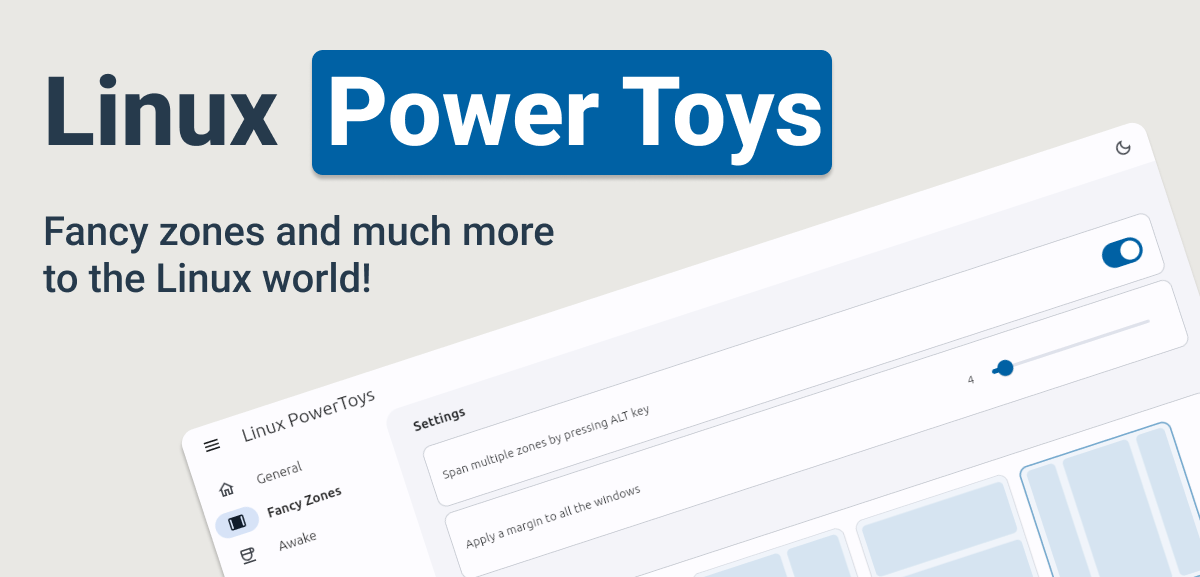
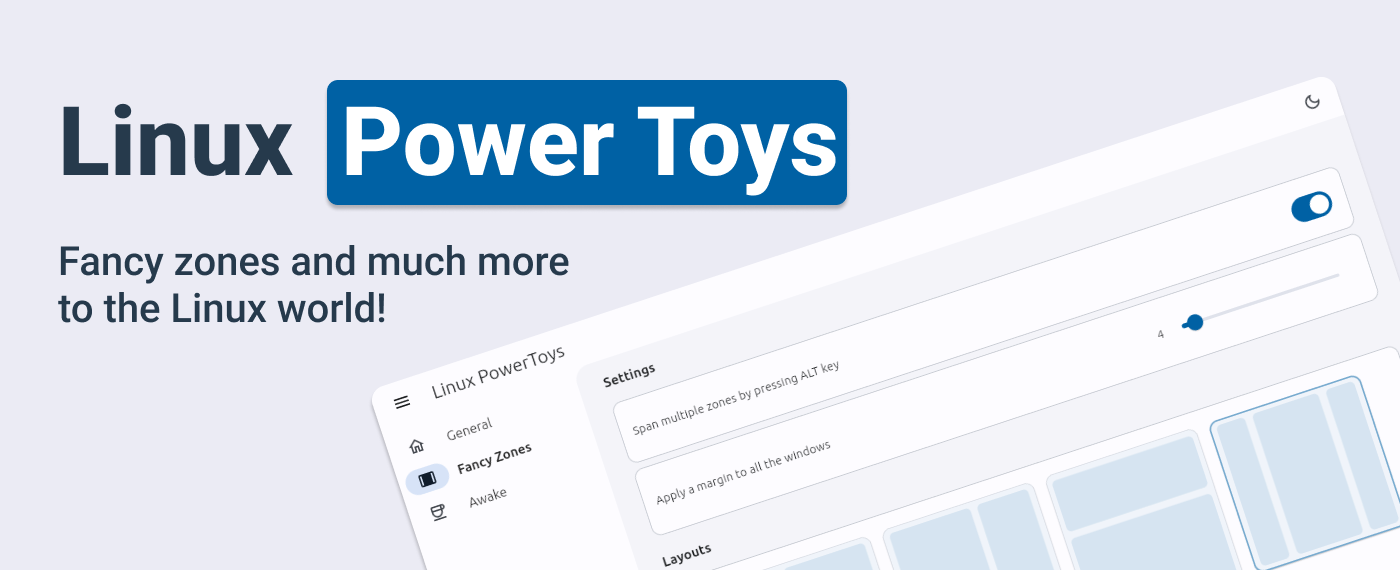
refactor: new hero image and added fancy zones showcase

diff --git a/README.md b/README.md
@@ -4,7 +4,9 @@
 
 _🚧 Get Microsoft's PowerToys utilities and much more to Linux world! This project is currently in a very early stage of development. Right now it is a prototype which demonstrates the feasibility of the concept._
 
-## About
+**Linux PowerToys**, is an open-source initiative aimed at bringing the utilities of Microsoft PowerToys and more to the Linux world. However, this project is not affiliated with or endorsed by Microsoft in any way. It is not a porting effort but a complete reimplementation from scratch. The original Microsoft PowerToys relies on Windows dependencies, and therefore, a porting process is not feasible.
+
+## Utilities
 
 Linux PowerToys brings a set of utilities to tune and streamline Linux experience for greater productivity.
 
@@ -21,16 +23,18 @@ Linux PowerToys brings a set of utilities to tune and streamline Linux experienc
 | **Image Resizer**     | To be implemented...                                                                                                                                                                                                                                                                                                                                                                                                        |
 | **Color Picker**      | To be implemented...                                                                                                                                                                                                                                                                                                                                                                                                        |
 
-## Project Attribution: Inspiring the Creation of Linux PowerToys
-
-**Linux PowerToys**, is an open-source initiative aimed at bringing the utilities of Microsoft PowerToys and more to the Linux world. However, it is important to note that this project is not affiliated with or endorsed by Microsoft in any way. It is not a porting effort but a complete reimplementation from scratch. The original Microsoft PowerToys does not support Linux, and therefore, a porting process is not feasible.
-
-While the concept and inspiration for this project come from Microsoft PowerToys, the development, design, and implementation of Linux PowerToys are entirely independent and community-driven. We would like to express our gratitude to the Microsoft PowerToys project for inspiring us to create this project for the Linux community.
-
-Please note that Linux PowerToys is licensed under the GPLv2 license. Any usage, distribution, or modification of the project should comply with the terms and conditions specified in the license.
-
 ## Install
 Download the [latest](https://github.com/domferr/Linux-PowerToys/releases/download/v0.6.1-alpha/Linux.PowerToys-x64-release-0.6.1.zip) release. Extract the archive and go into the extracted folder. Then run the executable `linuxpowertoys`.
+
+## Fancy Zones
+
+Fancy Zones are now available in the [latest](https://github.com/domferr/Linux-PowerToys/releases/download/v0.6.1-alpha/Linux.PowerToys-x64-release-0.6.1.zip) release! Let us know what do you think about :)
+
+
+### Creating a Layout
+![Creating a Layout](./doc/fz1-new-layout.gif)
+
+# Development
 
 ## Getting Started
 
